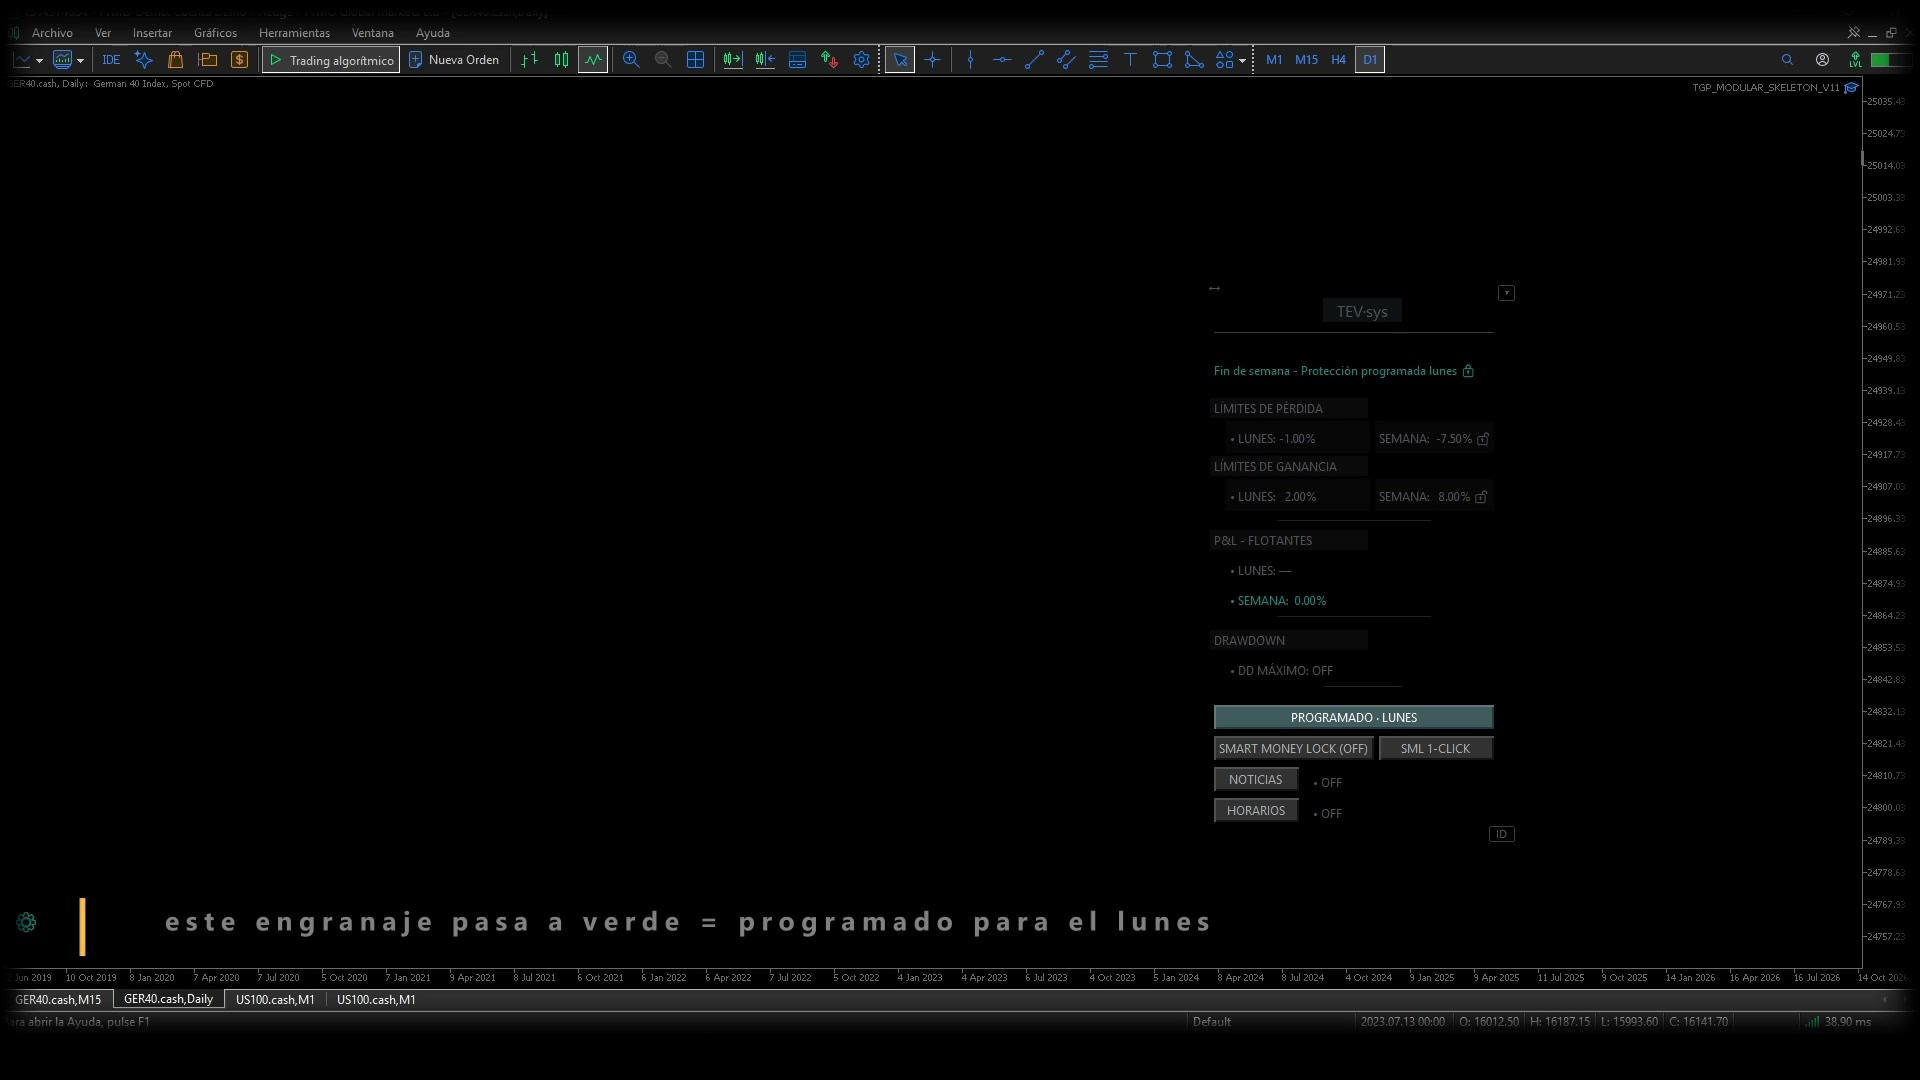
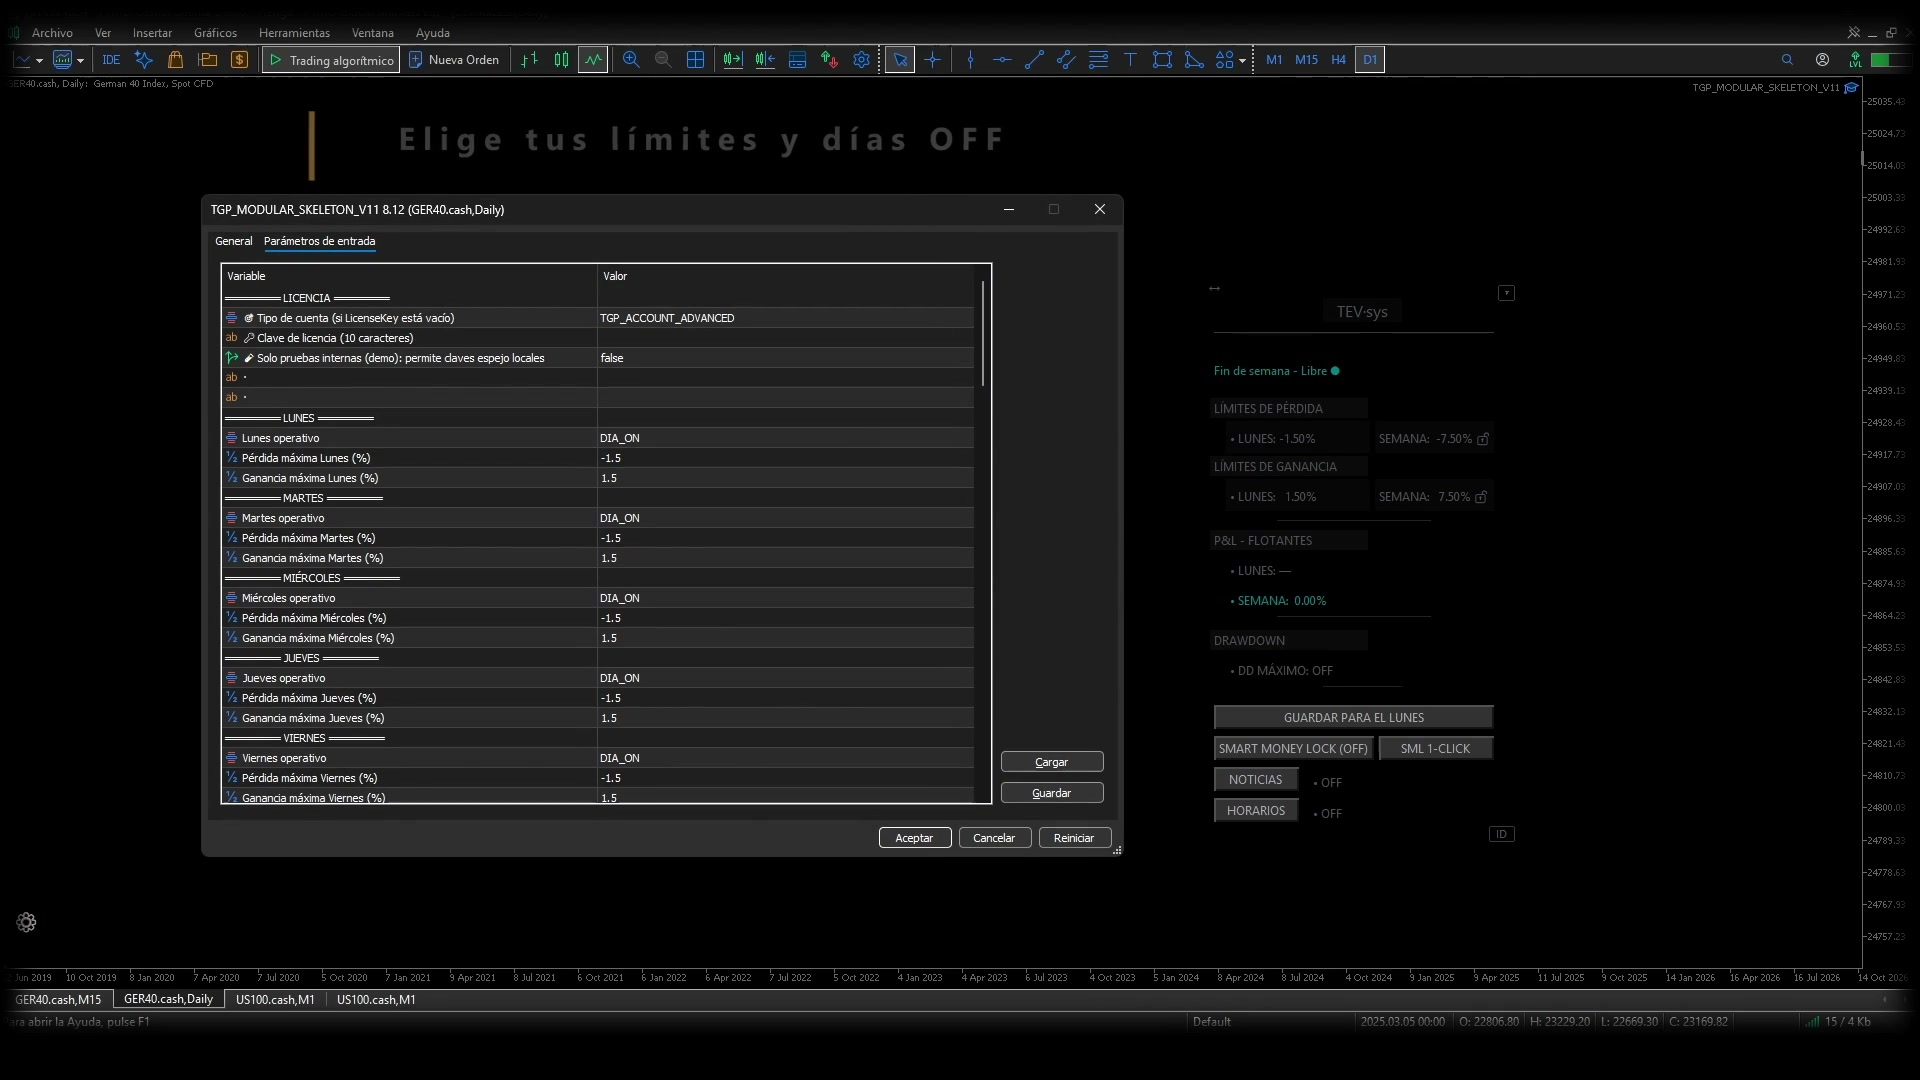
upp

diff --git a/docs/CHANGELOG-TEVSYS.md b/docs/CHANGELOG-TEVSYS.md
@@ -4,9 +4,14 @@ Registro completo de cambios aplicados en la landing de tevsys (base Odyssey The
 
 **Norma (jun 2026):** todo cambio web relevante se registra **aquí** (detalle) **y** en `docs/QUE_CONTIENE_TGP_Modular_Skeleton_V12.md` → *Ampliaciones* (viñeta + puntero). Espejo de criterio visual: `docs/SISTEMA_VISUAL_CUATRO_FAMILIAS_TEVSYS.md`.
 
+## Cómo funciona — posters MC-CF-021 + 028 con overlay visible (24 oct 2026)
+
+- **Qué:** posters con cartela de vídeo legible en card: 021 ~18 s (*Elige tus límites y días OFF*) · 028 ~34 s (*Tres destellos · protección en marcha*). `?v=20261024b` / `20261024`.
+- **Commit:** `web(tevsys): refresh programado and lunes posters with visible overlays`
+
 ## Cómo funciona — MC-CF-021 remake Penguin + engranaje sync (24 oct 2026)
 
-- **Qué:** `#videoclip-programado-lunes` ES|EN — remake ~62 s + Penguin; overlay engranaje tras modales de confirmación y hold con **PROGRAMADO · LUNES**. Poster ~54,5 s. `?v=20261024`.
+- **Qué:** `#videoclip-programado-lunes` ES|EN — remake ~62 s + Penguin; overlay engranaje tras modales de confirmación y hold con **PROGRAMADO · LUNES**. Poster luego afinado (ver entrada posters). `?v=20261024`.
 - **Commit:** `web(tevsys): refresh programado-lunes clip with penguin and gear sync`
 
 ## Tu ID — encuadre home + scroll lento a Hechos (23 oct noche)
